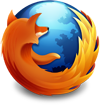
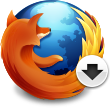
new button styles from Bug 795976

diff --git a/media/css/sandstone/buttons.less b/media/css/sandstone/buttons.less
@@ -266,35 +266,42 @@
     .button-green;
     cursor: pointer;
     padding: 0;
-    height: 95px;
-    margin-left: 50px;
+    margin-left: 54px;
+    width: 230px;
     text-align: inherit;
-    text-shadow: 0 -1px 0 rgba(0, 0, 0, 0.25);
     font-weight: normal;
     .download-content {
         display: block;
         position: relative;
-        color: #b5e786;
-        margin-left: -50px;
+        color: #b8e779;
+        margin-left: -54px;
         background: url(/media/img/sandstone/buttons/firefox-large.png) 0 0 no-repeat;
-        height: 93px;
-        padding: 12px 12px 0 112px;
+        min-height: 82px;
+        margin-bottom: -12px;
+        padding: 10px 12px 16px 119px;
     }
-    .download-title {
+    .download-title,
+    .download-title span {
         display: block;
         color: #fff;
-        font-size: 26px;
+        font-size: 30px;
+        font-weight: normal;
         letter-spacing: -0.02em;
-        padding-right: 32px;
-        background: url(/media/img/sandstone/buttons/arrow-large.png) no-repeat 100% 0;
-        min-height: 28px;
-        margin-bottom: -2px;
+        margin-top: 8px;
+        margin-bottom: 10px;
+        text-shadow: 0 -1px 0 rgba(0, 0, 0, 0.25);
     }
-    .download-info {
+    .download-title span {
+        margin-bottom: 0;
+    }
+    .download-subtitle {
+        text-shadow: 0 -1px 0 rgba(0, 0, 0, 0.25);
+    }
+    .download-lang {
         display: block;
         color: #346012;
         padding-top: 2px;
-        font-size: 12px;
+        font-size: 11px;
         line-height: 100%;
         text-shadow: 0 1px rgba(255,255,255,0.2);
     }
@@ -304,32 +311,32 @@
     line-height: @baseLine;
     font-size: 16px;
     .border-radius(6px);
-    min-width: 250px;
 }
 
 .download-button-small .download-link,
 .download-button-mobile-small .download-link {
     white-space: nowrap;
-    height: 48px;
-    margin-left: 25px;
-    .download-title {
-        .inline-block;
-        vertical-align: middle;
-        font-size: 24px;
-        background: url(/media/img/sandstone/buttons/arrow-small.png) no-repeat 100% 50%;
-        padding-right: 20px;
-        margin-right: 5px;
+    .download-content {
+        margin-left: -34px;
+        _margin-left:0;
+        margin-top: -2px;
+        margin-bottom: -7px;
+        background-image: url(/media/img/sandstone/buttons/firefox-small.png);
+        min-height: 45px;
+        padding: 10px 20px 10px 73px;
+        overflow: visible;
+        font-size: @smallFontSize;
         .border-radius(6px);
     }
-    .download-content {
-        .inline-block;
-        margin-left: -25px;
-        _margin-left:0;
-        background-image: url(/media/img/sandstone/buttons/firefox-small.png);
-        height: 42px;
-        padding: 10px 20px 0 65px;
-        overflow: visible;
-        .border-radius(6px);
+    .download-title {
+        font-size: 22px;
+        margin-top: 0;
+        margin-bottom: 0;
+    }
+    .download-lang {
+        position: absolute;
+        top: 10px;
+        right: 10px;
     }
 }
 
@@ -389,7 +396,7 @@ li.os_android,
     display: block;
     font-size: 11px;
     text-align: right;
-    margin-top: 4px;
+    margin-top: 6px;
     color: @textColorLight;
 
     a:link,
@@ -430,6 +437,16 @@ li.os_android,
 }
 
 // Mobile download buttons
+
+.download-button-mobile {
+    .download-link {
+       .download-title {
+            font-size: 16px;
+            color: #346012;
+            text-shadow: 0 1px rgba(255, 255, 255, 0.2);
+        }
+    }
+}
 
 .download-button-mobile-large {
     .download-link {

diff --git a/apps/mozorg/templates/mozorg/download_buttons/base.html b/apps/mozorg/templates/mozorg/download_buttons/base.html
@@ -24,21 +24,12 @@
          data-direct-link="{{ build.download_link_direct }}"{% endif %}>
         {% block download_content scoped %}
           <span class="download-content">
-            <span class="download-title">{% block title scoped %}Firefox{% endblock %}</span>
-            {% block subtitle scoped %}{{ _('Free Download') }}{% endblock %}
-            {% block download_info scoped %}
-              <span class="download-info">
-                {% block download_version scoped %}
-                  <span class="download-version">
-                    {{ version }} for {{ build.platform_pretty }}
-                  </span>
-                {% endblock %}
-                {% block download_lang scoped %}
-                  {% if build.platform != 'os_android' %}
-                    <span class="download-lang">{{ locale_name }}</span>
-                  {% endif %}
-                {% endblock %}
-              </span>
+            <strong class="download-title">{% block title scoped %}Firefox{% endblock %}</strong>
+            <span class="download-subtitle">{% block subtitle scoped %}{{ _('Free Download') }}{% endblock %}</span>
+            {% block download_lang scoped %}
+              {% if build.platform != 'os_android' %}
+                <span class="download-lang">{{ locale_name }}</span>
+              {% endif %}
             {% endblock %}
           </span>
         {% endblock %}

diff --git a/apps/mozorg/templates/mozorg/download_buttons/large_mobile.html b/apps/mozorg/templates/mozorg/download_buttons/large_mobile.html
@@ -4,9 +4,7 @@
 
 {% extends "mozorg/download_buttons/mobile_base.html" %}
 
-{% block class %}download-button-mobile-large{% endblock %}
-
-{% block title %}{{ _('Get Firefox for Android') }}{% endblock %}
+{% block title %}{{ _('<span>Firefox</span> for Android') }}{% endblock %}
 
 {% block download_content %}
   <span class="download-content-wrapper">{{ super() }}</span>

diff --git a/apps/mozorg/templates/mozorg/download_buttons/mobile_base.html b/apps/mozorg/templates/mozorg/download_buttons/mobile_base.html
@@ -6,6 +6,10 @@
 
 {% block class %}download-button-mobile{% endblock %}
 
+{% block subtitle %}{{ _('Get it free on Google Play') }}{% endblock %}
+
+{% block download_lang %}{% endblock %}
+
 {% block small_print %}
 <small class="download-other">
   <a href="{{ php_url('/firefox/mobile/platforms') }}">{{ _('Supported Devices') }}</a> |
